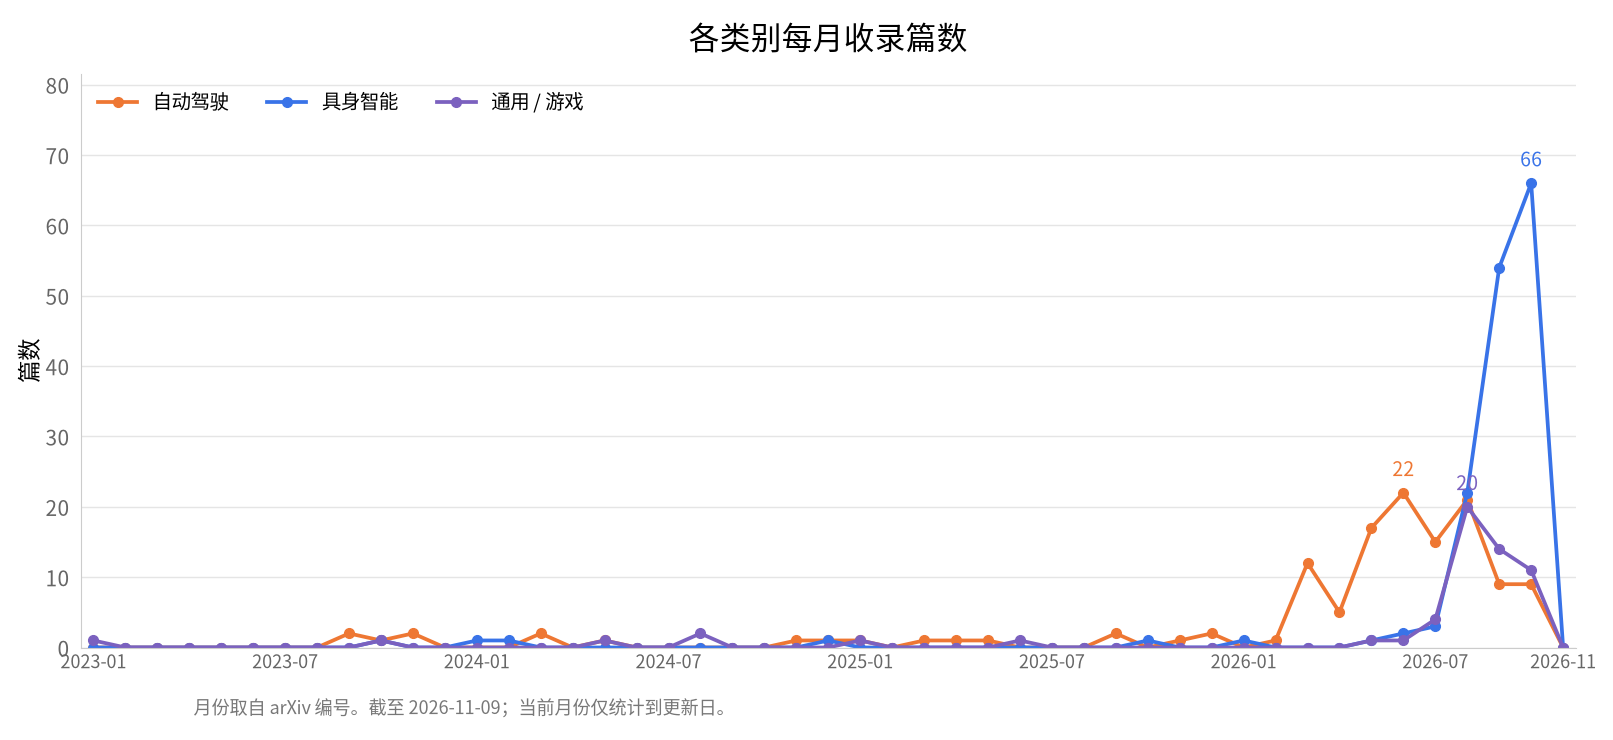
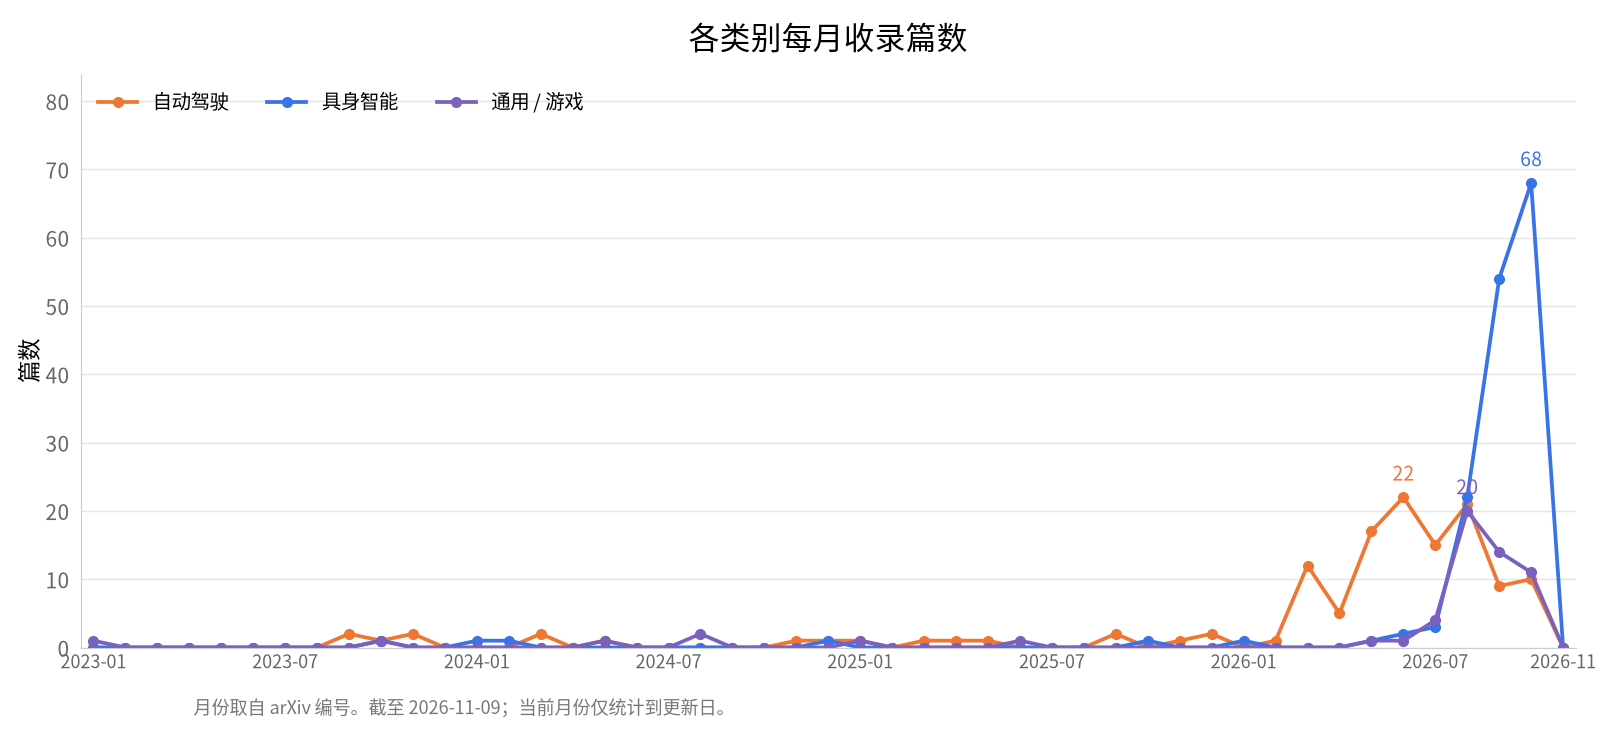
[update] ExecutionBridge, oneWM, and EgoJEPA

diff --git a/README.en.md b/README.en.md
@@ -10,7 +10,7 @@
 
 World models learn dynamic representations of their environments to predict and imagine the future. Interactive world models further support action-conditioned generation and control, providing data engines, neural simulators, and a foundation for policy learning in autonomous driving and embodied AI. This repository collects representative work, organized by application domain and annotated with its interactive capabilities.
 
-📊 **342** papers collected | Last updated: 2026-11-09
+📊 **345** papers collected | Last updated: 2026-11-09
 
 <p align="center">
   <img src="assets/interactive-world-model.en.svg" alt="Interactive world models: closed-loop interaction between agents and world models" width="760">
@@ -31,8 +31,8 @@ World models learn dynamic representations of their environments to predict and 
 
 ## Contents
 
-- [Autonomous Driving](#autonomous-driving) (130)
-- [Embodied AI](#embodied-ai) (154)
+- [Autonomous Driving](#autonomous-driving) (131)
+- [Embodied AI](#embodied-ai) (156)
 - [General / Game](#general--game) (58)
 
 ## Autonomous Driving
@@ -112,6 +112,7 @@ World models learn dynamic representations of their environments to predict and 
 | **PLAN-S**: Bridging Planning with Latent Style Dynamics for Autonomous Driving World Models | arXiv (2026) | Xinhu Zheng team | — | [Paper](https://arxiv.org/abs/2606.06014) | Decodes style-conditioned four-channel semantic cost maps from latent representations, bridging latent world models and planning. |
 | **Physics-Aware 3D Gaussian Editing for Driving Scene Generation** | arXiv (2026) | Rui Ma team | — | [Paper](https://arxiv.org/abs/2605.25373) | Uses a single image to drive road-geometry insertion and couples it with vehicle dynamics for physics-aware 3DGS editing. |
 | **PlanWAM**: Planning-Shaped Future Representations for End-to-End Autonomous Driving | arXiv (2026) | Southeast University / NIO / Nanyang Technological University / Tongji University | 🔁 | [Paper](https://arxiv.org/abs/2610.11382) \| [Project](https://jinchan9.github.io/PlanWAM_project_page/) \| [Code](https://github.com/jinchan9/PlanWAM) | Shapes a training-only posterior that observes the real future with planning losses, then distills it into a history-only future-latent predictor for trajectory generation and selection. Zero-shot closed-loop HUGSIM HD-Score is 38.7. The predictor is not conditioned on candidate actions, so this does not establish an action-controllable simulator. |
+| **ExecutionBridge**: Plans Are Not Executions: Adapting Frozen World-Model Planners to Controller-Induced Execution Shift | arXiv (2026) | Tsinghua University / DENSO | 🎮 | [Paper](https://arxiv.org/abs/2610.22041) | Keeps the planner, world model, and reward head frozen, infers controller characteristics from planned–executed pairs, and corrects the ego latent rollout. Across ten unseen controllers, NAVSIM PDMS rises from 87.98 to 88.59; on the subset where frozen WoTE is below 80, it rises from 32.04 to 46.13. Substituting predicted execution trajectories improves PDMS by only 0.048. On standard NAVSIM, WoTE rises from 88.2 to 88.8, and evaluation remains log-based and open-loop. |
 | **Point as Skeleton: Accumulated Point Cloud Enhanced Autoregressive Generation for Closed-Loop AD Simulation** | arXiv (2026) | Junchi Yan team | 🔁 | [Paper](https://arxiv.org/abs/2607.06516) | Combines point-cloud skeleton conditioning with Reset-and-Roll diffusion inference for closed-loop driving video generation with state updates. |
 | **Proposal-Conditioned Latent Diffusion for Closed-Loop Traffic Scenario Generation** | arXiv (2026) | Steven Peters team | 🔁 | [Paper](https://arxiv.org/abs/2606.27123) | Conditional diffusion with instance-centric context and multimodal proposal priors, using test-time guidance to shape safety-critical behaviors. |
 | **RS2AD-LiDAR**: End-to-End Autonomous Driving LiDAR Data Generation from Roadside Sensor Observations | arXiv (2026) | Keqiang Li team | — | [Paper](https://arxiv.org/abs/2605.23406) | Generates LiDAR data usable for end-to-end autonomous driving from roadside sensor observations. |
@@ -186,6 +187,7 @@ World models learn dynamic representations of their environments to predict and 
 | **Dual-WM**: Beyond a Single Latent Space: A Dual-Latent World Model for Long-Horizon Planning | arXiv (2026) | Nanjing University / Shanghai Jiao Tong University / Shenzhen Institutes of Advanced Technology / Shenzhen University of Advanced Technology | 🎮 🔁 ⏳ | [Paper](https://arxiv.org/abs/2609.37644) \| [Code](https://github.com/DeLin1001/Dual-WM-Official) | Uses low-level latent space for fine-grained action transitions and learned macro-actions at the high level for long-horizon subgoals. Across five goal-conditioned visual-control tasks, average success rises from 75.9% to 84.4% for a 50-step goal offset and from 61.4% to 69.5% for a 100-step offset. At 100 steps, it exceeds LeWM by 30.8 percentage points. |
 | **CF-JEPA**: Improving Robustness of JEPA World Models via Controllability Factorization | arXiv (2026) | Georgia Institute of Technology / Georgia Tech Research Institute | 🎮 🔁 | [Paper](https://arxiv.org/abs/2610.00727) | Splits JEPA's latent space into controllable and uncontrollable components and plans only with the controllable component. Under two visual distractors, LeWM collapses on all tasks; Reacher success is 0.10 for SMWM and 0.48 for CF-JEPA. With additional distractors, SMWM's PushT and TwoRoom success drops from 0.86 and 0.98 to 0.27 and 0.46, while CF-JEPA maintains 0.57 and 0.82. |
 | **CLAP**: Cross-Embodiment Video World Models are Zero-Shot Physical Simulators | arXiv (2026) | — | 🎮 | [Paper](https://arxiv.org/abs/2608.27406) \| [Project](https://omni-clap.github.io) | Unifies heterogeneous action spaces through end-effector poses, language instructions, and latent actions. Curriculum-based cross-embodiment training first learns physical priors from unlabeled internet videos, then grounds them in real action spaces for zero-shot deployment. It approaches or exceeds single-embodiment SOTA in environments including DROID; all code and models are open source. |
+| **OneWM**: Can World and Action Modeling Benefit Each Other under Unified Causal Training? | arXiv (2026) | The University of Hong Kong / Shanghai Jiao Tong University / Tsinghua University / SII / University of Chinese Academy of Sciences / IAAI Team | 🎮 🔁 | [Paper](https://arxiv.org/abs/2610.21095) \| [Project](https://selen-suyue.github.io/OneWMNet) | Within one causal architecture, supervises world prediction with the visual consequences of specified actions and jointly learns actions. Against action-masked WAMmask, overall success rises from 53.37% to 59.27% on LIBERO-Plus and from 28.32% to 36.68% on RoboCasa365. Across three real-robot tasks with 15 trials each, mean success rises from 48.9% to 66.7%. Policy deployment does not generate future video. On LIBERO, Fast-WAM remains at 97.60% while OneWM reaches 94.95%. |
 | **CausalNav**: Reliability-Certified Causal World Models for Control under Physical-Parameter Shift | arXiv (2026) | Jun Shen team | — | [Paper](https://arxiv.org/abs/2608.07809) | A reliability-certified causal world model for navigation control under changes in physical parameters. |
 | **CausalWM**: Causal Chain-of-Thought Reasoning for Embodied World Model | arXiv (2026) | Aether AI | 🎮 | [Paper](https://arxiv.org/abs/2609.23184) \| [Project](https://aetherlabsai.github.io/CausalWM/) \| [Code](https://github.com/AetherLabsAI/CausalWM) | A 16B embodied video world model that predicts optical flow first, then 3D point maps, and finally future frames, with each preceding result fixed as context for the next stage. Training uses approximately 31,000 hours of embodied data. On the September 11, 2026 TriWorldBench evaluation, it ranks first among 36 publicly available models with 66.04, exceeding second place by 0.50. |
 | **CAG**: Completion Aware Guidance for World Action Models | arXiv (2026) | Seoul National University / KAIST | 🎮 🔁 | [Paper](https://arxiv.org/abs/2610.01559) | Short-chunk control can cause world-action models to repeatedly select plausible local continuations while omitting the state transitions needed to complete the task. CAG provides training-free sampling guidance without retraining the backbone. Success rises from 64% to 70% on a RoboTwin 2.0 subset and from 69% to 75% in zero-shot simulation, while imagined task non-completion falls from 79% to 40%. |
@@ -213,6 +215,7 @@ World models learn dynamic representations of their environments to predict and 
 | **DyMD**: Preserving Interaction Dynamics through Distribution Matching Distillation in Few-Step Video World Models | arXiv (2026) | Beihang University / JD Future Research Institute | 🎮 | [Paper](https://arxiv.org/abs/2609.31349) | Distills a 14B robot-video teacher into a four-step, 1.3B student without adding extra modules at inference. It adjusts re-noising according to temporal similarity between current rollouts and demonstration videos, and increases critic loss for strong-motion samples that are harder to fit. Compared with standard distribution-matching distillation, task adherence on R-Bench is 9.6 percentage points higher and Domain on PAI-Bench-G is 5.1 higher. As a downstream planning backbone, it raises average success on two WorldArena tasks from 16% to 34%. |
 | **EA-WM**: Event-Aware Generative World Model with Structured Kinematic-to-Visual Action Fields | arXiv (2026) | Zhongguancun Institute of Artificial Intelligence / University of Science and Technology of China / Fudan University | 🎮 | [Paper](https://arxiv.org/abs/2605.06192) \| [Code](https://github.com/Shownx-c/EA-WM) | Generates future robot videos with Wan2.2. Actions are rendered into image-space skeletons, grippers, end-effector heatmaps, and pose axes through forward kinematics and camera projection; frame-difference latents gate them to changing regions. On WorldArena, P3CScore is 76.60 versus CogVideoX's 71.08, and trajectory accuracy is 0.430 versus 0.353. Replacing these fields with numerical actions lowers the same score to 70.97. Constructing action fields requires a robot model and camera calibration. |
 | **Ego2Act**: Evaluating Goal-Directed Manipulation in Egocentric Video Generation | arXiv (2026) | MBZUAI / Nanyang Technological University / University of North Carolina at Chapel Hill | — | [Paper](https://arxiv.org/abs/2610.01092) \| [Project](https://ego2act.github.io) \| [Code](https://github.com/ego2act/ego2act) | Contains 110 real-world tasks and 2,640 videos. Inputs are an initial frame and a high-level goal; tasks average more than five steps, and the median duration of successful human execution is 20.4 s. The highest overall score, from Seedance-2.0, is only 64.0. Correlation between automatic judgments and human consensus is 0.69, while inter-annotator ICC is 0.86. Common failures are skipped or partially completed steps, leaving subsequent steps without the required states. |
+| **EgoJEPA**: Beyond Retargeting for Dexterous Manipulation from Egocentric Videos | arXiv (2026) | MBZUAI / Shanghai Jiao Tong University / X Square Robot / Xense Robotics / Sun Yat-sen University | 🔁 | [Paper](https://arxiv.org/abs/2610.20904) \| [Project](https://mengcaopku.github.io/EgoJEPA) | Conditions a JEPA on hand-motion differences to predict visual consequences, then jointly flow-matches future vision and latent actions before attaching lightweight robot adapters. Across five tasks, three embodiments, and 20 trials per task, out-of-domain success averages 74%, versus 65% for retargeting and 40% for robot-only training. Deployment jointly generates vision and actions, without counterfactual rollouts of specified robot actions. |
 | **FACT**: Failure-Aware Causal Training for World-Action Models | arXiv (2026) | Xiaolong Wang team | — | [Paper](https://arxiv.org/abs/2608.10232) | Failure-aware causal training explicitly models causal action-consequence relationships to correct the optimistic bias of world models. |
 | **FLEX-WAM**: Flexible Block-Causal World-Action Models for Long-Horizon Imagination and Planning | arXiv (2026) | NYU | 🎮 ⚡ 🔁 ⏳ | [Paper](https://arxiv.org/abs/2610.05483) | A block-causal backbone supporting KV caching jointly predicts futures, generates actions, and plans in imagination, with variable-length context and unlimited frame-by-frame or block-by-block rollouts. Forward-dynamics elasticity constrains action responsiveness. It can serve as both a proposal model and simulator for MCTS on long-horizon PushT and OGBench, while the same checkpoint acts as a policy and outcome predictor on a real dual-arm robot. |
 | **Flow-Skill WM**: Flow Policies as Actions of Skill-Level World Models: Learned and Symbolic Abstractions for Long-Horizon Planning | arXiv (2026) | TU Delft | 🎮 🔁 ⏳ | [Paper](https://arxiv.org/abs/2610.04767) \| [Project](https://andreumatoses.github.io/research/flow-skill-wm) | Uses the inputs of a flow-matching policy trained on complete skill segments as skill-level actions, so each skill execution corresponds to one world-model transition without a manually written skill vocabulary. Unlabeled, object-centric discrete codes align with symbolic labels for individual skills; tasks involving 2 to 5 skills retain approximately one-half to three-quarters of the single-skill success rate. |

diff --git a/README.md b/README.md
@@ -10,7 +10,7 @@
 
 世界模型 (World Model) 通过学习环境的动态表征，实现对未来的预测与想象； 可交互世界模型进一步支持以动作 (action) 为条件的生成与控制， 为自动驾驶和具身智能提供数据引擎、神经仿真器与策略学习基础。 本仓库收录并整理该方向的代表性工作，按应用场景分类， 并标注每篇工作的交互能力维度。
 
-📊 共收录 **342** 篇工作 ｜ 最后更新：2026-11-09
+📊 共收录 **345** 篇工作 ｜ 最后更新：2026-11-09
 
 <p align="center">
   <img src="assets/interactive-world-model1.png" alt="交互式世界模型：智能体与世界模型的闭环交互" width="760">
@@ -31,8 +31,8 @@
 
 ## 目录
 
-- [自动驾驶 Autonomous Driving](#自动驾驶-autonomous-driving)（130）
-- [具身智能 Embodied AI](#具身智能-embodied-ai)（154）
+- [自动驾驶 Autonomous Driving](#自动驾驶-autonomous-driving)（131）
+- [具身智能 Embodied AI](#具身智能-embodied-ai)（156）
 - [通用 / 游戏 General / Game](#通用--游戏-general--game)（58）
 
 ## 自动驾驶 Autonomous Driving
@@ -112,6 +112,7 @@
 | **PLAN-S**: Bridging Planning with Latent Style Dynamics for Autonomous Driving World Models | arXiv (2026) | Xinhu Zheng 团队 | — | [论文](https://arxiv.org/abs/2606.06014) | 从潜表示解码风格条件四通道语义代价图，桥接潜世界模型与规划。 |
 | **Physics-Aware 3D Gaussian Editing for Driving Scene Generation** | arXiv (2026) | Rui Ma 团队 | — | [论文](https://arxiv.org/abs/2605.25373) | 单图驱动道路几何插入并耦合车辆动力学，实现物理感知的 3DGS 编辑。 |
 | **PlanWAM**: Planning-Shaped Future Representations for End-to-End Autonomous Driving | arXiv (2026) | Southeast University / NIO / Nanyang Technological University / Tongji University | 🔁 | [论文](https://arxiv.org/abs/2610.11382) \| [项目](https://jinchan9.github.io/PlanWAM_project_page/) \| [代码](https://github.com/jinchan9/PlanWAM) | 用规划损失塑造读取真实未来的训练期后验，再蒸馏给仅依赖历史的未来潜变量预测器，用于轨迹生成与筛选。零样本 HUGSIM 闭环 HD-Score 为 38.7；预测器不以候选动作作为条件，不能据此视为动作可控仿真器。 |
+| **ExecutionBridge**: Plans Are Not Executions: Adapting Frozen World-Model Planners to Controller-Induced Execution Shift | arXiv (2026) | Tsinghua University / DENSO | 🎮 | [论文](https://arxiv.org/abs/2610.22041) | 保持规划器、世界模型和奖励头冻结，用计划–执行轨迹对推断控制器特性并修正自车潜在展开。十个未见控制器上，NAVSIM PDMS 从 87.98 升至 88.59；冻结 WoTE 低于 80 的困难子集从 32.04 升至 46.13。直接替换成预测执行轨迹只提高 0.048，标准 NAVSIM 上 WoTE 从 88.2 到 88.8，评测仍是日志开环。 |
 | **Point as Skeleton: Accumulated Point Cloud Enhanced Autoregressive Generation for Closed-Loop AD Simulation** | arXiv (2026) | Junchi Yan 团队 | 🔁 | [论文](https://arxiv.org/abs/2607.06516) | 点云骨架条件 + Reset-and-Roll 扩散推理，实现状态更新式闭环驾驶视频生成。 |
 | **Proposal-Conditioned Latent Diffusion for Closed-Loop Traffic Scenario Generation** | arXiv (2026) | Steven Peters 团队 | 🔁 | [论文](https://arxiv.org/abs/2606.27123) | 实例中心上下文 + 多模态提案先验的条件扩散，测试时引导塑造安全关键行为。 |
 | **RS2AD-LiDAR**: End-to-End Autonomous Driving LiDAR Data Generation from Roadside Sensor Observations | arXiv (2026) | Keqiang Li 团队 | — | [论文](https://arxiv.org/abs/2605.23406) | 从路侧传感器观测生成端到端自动驾驶可用 LiDAR 数据。 |
@@ -186,6 +187,7 @@
 | **Dual-WM**: Beyond a Single Latent Space: A Dual-Latent World Model for Long-Horizon Planning | arXiv (2026) | 南京大学 / 上海交通大学 / 深圳先进技术研究院 / 深圳理工大学 | 🎮 🔁 ⏳ | [论文](https://arxiv.org/abs/2609.37644) \| [代码](https://github.com/DeLin1001/Dual-WM-Official) | 低层潜空间做细粒度动作转移，高层用学到的宏动作做长程子目标。五个目标条件视觉控制任务上，目标偏移 50 步时平均成功率从 75.9% 到 84.4%，100 步时从 61.4% 到 69.5%。偏移 100 步时相对 LeWM 高 30.8 个百分点。 |
 | **CF-JEPA**: Improving Robustness of JEPA World Models via Controllability Factorization | arXiv (2026) | 佐治亚理工学院 / 佐治亚理工研究院 | 🎮 🔁 | [论文](https://arxiv.org/abs/2610.00727) | 把 JEPA 潜空间拆成可控和不可控两部分，规划只用可控部分。两个视觉干扰下，LeWM 在全部任务上坍缩；Reacher 上 SMWM 成功率 0.10，CF-JEPA 为 0.48。干扰再增加时，SMWM 的 PushT 和 TwoRoom 从 0.86、0.98 掉到 0.27、0.46，CF-JEPA 维持 0.57 和 0.82。 |
 | **CLAP**: Cross-Embodiment Video World Models are Zero-Shot Physical Simulators | arXiv (2026) | — | 🎮 | [论文](https://arxiv.org/abs/2608.27406) \| [项目](https://omni-clap.github.io) | 用末端位姿、语言指令与潜动作统一异构动作空间，以课程式跨本体训练先从无标注互联网视频学物理先验、再接地到真实动作空间做零样本部署，在 DROID 等环境逼近或超越单本体 SOTA，代码与模型全部开源。 |
+| **OneWM**: Can World and Action Modeling Benefit Each Other under Unified Causal Training? | arXiv (2026) | The University of Hong Kong / Shanghai Jiao Tong University / Tsinghua University / SII / University of Chinese Academy of Sciences / IAAI Team | 🎮 🔁 | [论文](https://arxiv.org/abs/2610.21095) \| [项目](https://selen-suyue.github.io/OneWMNet) | 在同一因果架构里，用指定动作的视觉后果监督世界预测，并联合学习动作。相对屏蔽动作的 WAMmask，LIBERO-Plus 总成功率由 53.37% 升至 59.27%，RoboCasa365 由 28.32% 升至 36.68%；三真机任务各 15 次的平均成功率由 48.9% 升至 66.7%。策略部署时不生成未来视频，LIBERO 上 Fast-WAM 仍为 97.60%，OneWM 为 94.95%。 |
 | **CausalNav**: Reliability-Certified Causal World Models for Control under Physical-Parameter Shift | arXiv (2026) | Jun Shen 团队 | — | [论文](https://arxiv.org/abs/2608.07809) | 物理参数变化下可靠性认证的因果世界模型，用于导航控制。 |
 | **CausalWM**: Causal Chain-of-Thought Reasoning for Embodied World Model | arXiv (2026) | Aether AI | 🎮 | [论文](https://arxiv.org/abs/2609.23184) \| [项目](https://aetherlabsai.github.io/CausalWM/) \| [代码](https://github.com/AetherLabsAI/CausalWM) | 16B 具身视频世界模型先预测光流，再预测三维点图，最后预测未来画面，前一步结果固定为后一步的上下文。训练用了约 3.1 万小时具身数据。2026 年 9 月 11 日的 TriWorldBench 上，36 个已公开模型里以 66.04 排第一，比第二名高 0.50。 |
 | **CAG**: Completion Aware Guidance for World Action Models | arXiv (2026) | 首尔大学 / KAIST | 🎮 🔁 | [论文](https://arxiv.org/abs/2610.01559) | 短块控制会让世界–动作模型反复选看起来合理的局部延续，把完成任务所需要的状态转移丢掉。CAG 是免训练的采样引导，骨干没有重训。RoboTwin 2.0 子集上成功率从 64% 到 70%，零样本仿真从 69% 到 75%，任务未完成的想象从 79% 降到 40%。 |
@@ -213,6 +215,7 @@
 | **DyMD**: Preserving Interaction Dynamics through Distribution Matching Distillation in Few-Step Video World Models | arXiv (2026) | 北京航空航天大学 / 京东未来研究院 | 🎮 | [论文](https://arxiv.org/abs/2609.31349) | 把 14B 机器人视频老师蒸馏成四步、1.3B 的学生，推理时不加额外模块。它按当前展开与示范视频的时间相似度调整重加噪，并给更难拟合的强运动样本加大评论器损失。相对普通分布匹配蒸馏，R-Bench 任务遵循高 9.6 个百分点，PAI-Bench-G 的 Domain 高 5.1；作为下游规划骨干，两个 WorldArena 任务的平均成功率从 16% 到 34%。 |
 | **EA-WM**: Event-Aware Generative World Model with Structured Kinematic-to-Visual Action Fields | arXiv (2026) | 中关村人工智能研究院 / 中国科学技术大学 / 复旦大学 | 🎮 | [论文](https://arxiv.org/abs/2605.06192) \| [代码](https://github.com/Shownx-c/EA-WM) | 在 Wan2.2 上生成机器人未来视频。动作经正运动学和相机投影画成画面里的骨架、夹爪、末端热图和姿态轴，再用帧差潜变量把门控到正在变化的区域。WorldArena 上 P3CScore 为 76.60，CogVideoX 为 71.08；轨迹准确度 0.430 对 0.353。换成数值动作后同一分数掉到 70.97。构建动作场需要机器人模型和相机标定。 |
 | **Ego2Act**: Evaluating Goal-Directed Manipulation in Egocentric Video Generation | arXiv (2026) | MBZUAI / 南洋理工大学 / 北卡罗来纳大学教堂山分校 | — | [论文](https://arxiv.org/abs/2610.01092) \| [项目](https://ego2act.github.io) \| [代码](https://github.com/ego2act/ego2act) | 110 个真实任务、2640 段视频。输入是起始画面和高层目标，平均要超过五步，人类成功执行的中位时长 20.4 秒。最高的 Seedance-2.0 总分只有 64.0。自动评判与人类共识的相关为 0.69，标注者之间的 ICC 为 0.86。常见失败是跳过或只做完部分步骤，后面的步骤因此缺少该有的状态。 |
+| **EgoJEPA**: Beyond Retargeting for Dexterous Manipulation from Egocentric Videos | arXiv (2026) | MBZUAI / Shanghai Jiao Tong University / X Square Robot / Xense Robotics / Sun Yat-sen University | 🔁 | [论文](https://arxiv.org/abs/2610.20904) \| [项目](https://mengcaopku.github.io/EgoJEPA) | 用手部运动差条件化 JEPA 预测视觉后果，再联合流匹配未来视觉与潜动作，并用轻量适配器接到机器人。五任务、三本体、每任务 20 次的域外平均成功率为 74%，重定向基线为 65%，仅用机器人数据为 40%。部署时联合生成视觉和动作，未做指定机器人动作的反事实展开。 |
 | **FACT**: Failure-Aware Causal Training for World-Action Models | arXiv (2026) | Xiaolong Wang 团队 | — | [论文](https://arxiv.org/abs/2608.10232) | 失败感知因果训练，显式建模动作-后果因果关系以纠正世界模型的乐观偏差。 |
 | **FLEX-WAM**: Flexible Block-Causal World-Action Models for Long-Horizon Imagination and Planning | arXiv (2026) | NYU | 🎮 ⚡ 🔁 ⏳ | [论文](https://arxiv.org/abs/2610.05483) | 用可 KV cache 的块因果骨干同时预测未来、生成动作并在想象中规划，支持变长上下文和逐帧或逐块的无限 rollout；以前向动力学弹性约束动作响应。可作为 MCTS 的联合提议器与仿真器解长时程 PushT 和 OGBench，同一检查点在双臂真机上兼作策略与结果预测。 |
 | **Flow-Skill WM**: Flow Policies as Actions of Skill-Level World Models: Learned and Symbolic Abstractions for Long-Horizon Planning | arXiv (2026) | TU Delft | 🎮 🔁 ⏳ | [论文](https://arxiv.org/abs/2610.04767) \| [项目](https://andreumatoses.github.io/research/flow-skill-wm) | 用在完整技能片段上训练的流匹配策略的输入作为技能级动作，一次技能执行对应世界模型的一步转移，从而不必手工编写技能词表。无标签的物体中心离散码在单技能上对齐符号标签，2 到 5 个技能的任务仍保留其约一半到四分之三的成功率。 |

diff --git a/curation/2026-11-09.md b/curation/2026-11-09.md
@@ -144,3 +144,14 @@
 | [T2-z: Test-Time Optimization of Environment Latents for Robotic World Models](https://arxiv.org/abs/2610.22364) | 收录 | 冻结动作条件世界模型，用测试时交互优化环境潜变量，再按预测后果选择并执行候选动作。正文分开报告：仿真物理误差 12.86→4.80、动作成功 37.9%→74.2%；四项真机跟踪误差 19.30→10.85 像素、成功 26.5%→70.8%。摘要 15.20 与 33.73% 混合了两类误差和两类成功率，条目采用分开的数字。标 action/closedloop。项目页、代码与数据页已核验，venue 为 arXiv。 [来源 1](https://arxiv.org/abs/2610.22364)、[来源 2](https://arxiv.org/html/2610.22364v1)、[来源 3](https://t2-z-latent-optimization.github.io/)、[来源 4](https://github.com/T2-z-latent-optimization/T2-z) |
 | [IDfRA: Self-Verification for Iterative Design in Robotic Assembly](https://arxiv.org/abs/2509.16998) | 不收录 | LLM 生成装配计划，机器人执行一次，VLM 根据结果再规划。全文明确部署前不依赖准确世界模型，转移由真实执行发现，没有训练可展开的动态预测器。语义可识别率 73.3%、搭建成功率 86.9% 衡量的是设计迭代，不是动作后果预测。DOI 10.1109/ICRA57385.2026.11697014 对应 ICRA 2026，但范围不符。 [来源 1](https://arxiv.org/abs/2509.16998)、[来源 2](https://arxiv.org/html/2509.16998v2) |
 | [Decoupling Appearance and Geometry in Diffusion World Models](https://arxiv.org/abs/2610.20625) | 暂缓 | 第一阶段确是动作条件深度扩散，第二阶段用预测深度生成 RGB 且不再看动作。2400 段 CS:GO 验证中，两阶段 FVD 53.1，弱于同设置 RGB-only 的 52.8；深度 AbsRel 318.1 对联合模型 340.3，但深度来自 MiDaS 伪标注。作者写明相对联合模型的优势含参数量翻倍，并列出模型规模消融不足、伪深度误差会使深度网络失效。无动作跟随或闭环指标，单人作者、单一地图。暂缓到动作忠实度和跨环境证据更清楚。 [来源 1](https://arxiv.org/abs/2610.20625)、[来源 2](https://arxiv.org/html/2610.20625v1) |
+
+## Issue #46 — arXiv 候选论文更新 2026-10-17
+
+[原 issue](https://github.com/Zizizi-hao/Awesome-interactive-world-model-for-Pysical-Intelligence/issues/46)；候选 4 篇，收录 3 篇。API 检索 3/3 组完成。
+
+| 论文 | 结论 | 理由与核验来源 |
+| :--- | :--- | :--- |
+| [Plans Are Not Executions: Adapting Frozen World-Model Planners to Controller-Induced Execution Shift](https://arxiv.org/abs/2610.22041) | 收录 | 冻结规划器、世界模型和奖励头，用计划–执行对学习控制器表征并修正自车潜在展开，未来损失监督控制器对应的 BEV。十个未见控制器平均 PDMS 87.976→88.589；冻结 WoTE PDMS&lt;80 的子集 32.038→46.128。直接替换预测执行只 +0.048。无控制器条件的潜变量适配仅为 88.071，说明增益不只是额外适配容量。标准 NAVSIM 上 WoTE/ResWorld/WorldDrive 分别 +0.6/+0.4/+0.3。评测是日志 PDMS，不标 closedloop；计划轨迹仍是条件，标 action。无项目或代码链接，机构为清华大学与 DENSO，venue 为 arXiv。 [来源 1](https://arxiv.org/abs/2610.22041)、[来源 2](https://arxiv.org/html/2610.22041v1) |
+| [From Optical Flow to Safety: Visual Safety Certification via Scale-Free Relative Motion](https://arxiv.org/abs/2610.21374) | 不收录 | 用光流上的 Concurrent Learning 观测器估计当前归一化相对速度，再经碰撞锥 CBF-QP 修改控制。作者明确不重建度量世界模型，也没有训练可展开的未来动力学。TurtleBot3 100 次中 93 次无碰撞是安全滤波结果，不因导航实验质量而纳入。最新 v2。 [来源 1](https://arxiv.org/abs/2610.21374)、[来源 2](https://arxiv.org/html/2610.21374v2) |
+| [Can World and Action Modeling Benefit Each Other under Unified Causal Training?](https://arxiv.org/abs/2610.21095) | 收录 | 简称 OneWM。同一 MoT 中，干净指定动作条件化未来视频，并联合学习动作。相对 WAMmask，LIBERO 94.95 对 92.45，LIBERO-Plus 总成功率 59.27 对 53.37，RoboCasa365 36.68 对 28.32；同架构 LIBERO 上 Fast-WAM 仍为 97.60。世界预测相对只做干净动作条件视频的 WM，LIBERO PSNR 22.33→22.95、LPIPS 0.1529→0.1458。三真机任务各 15 次，图 3 平均成功率 48.9%→66.7%（早餐 66.7%→86.7%，插入 20.0%→40.0%，堆叠 60.0%→73.3%）。附录写明策略部署复用观测视频、不生成未来视频，故闭环是策略闭环；动作条件视频在单独预测协议中成立，标 action/closedloop。首页机构写为 MMLab@HKU、MVIG@SJTU、THU、SII、UCAS、IAAI Team，未展开的缩写按原文保留。项目页已核验，无代码链接。 [来源 1](https://arxiv.org/abs/2610.21095)、[来源 2](https://arxiv.org/html/2610.21095v1)、[来源 3](https://selen-suyue.github.io/OneWMNet) |
+| [EgoJEPA: Beyond Retargeting for Dexterous Manipulation from Egocentric Videos](https://arxiv.org/abs/2610.20904) | 收录 | 阶段 1 用手部运动差预测未来视觉表征，阶段 2 联合流匹配未来视觉与潜动作，阶段 3 只用轻量适配器接到机器人动作。五任务、三本体、每设置 20 次：域内平均 94%，域外 74%，比重定向高 9 个百分点（65%），仅机器人数据为 40%，VQ-VAE 重建对照为 63%。部署联合生成视觉与动作，没有指定机器人动作的反事实视频，故只标 closedloop。接触密集的域外任务仍下降。项目页已核验；文中 GitHub 是重定向基线 SDK，不写成模型代码。 [来源 1](https://arxiv.org/abs/2610.20904)、[来源 2](https://arxiv.org/html/2610.20904v1)、[来源 3](https://mengcaopku.github.io/EgoJEPA) |
